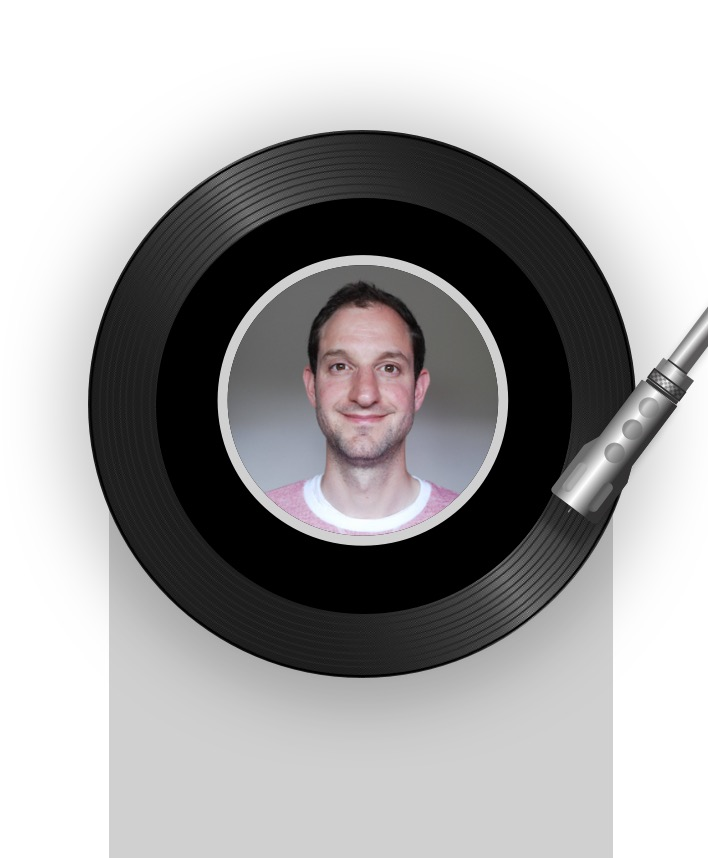
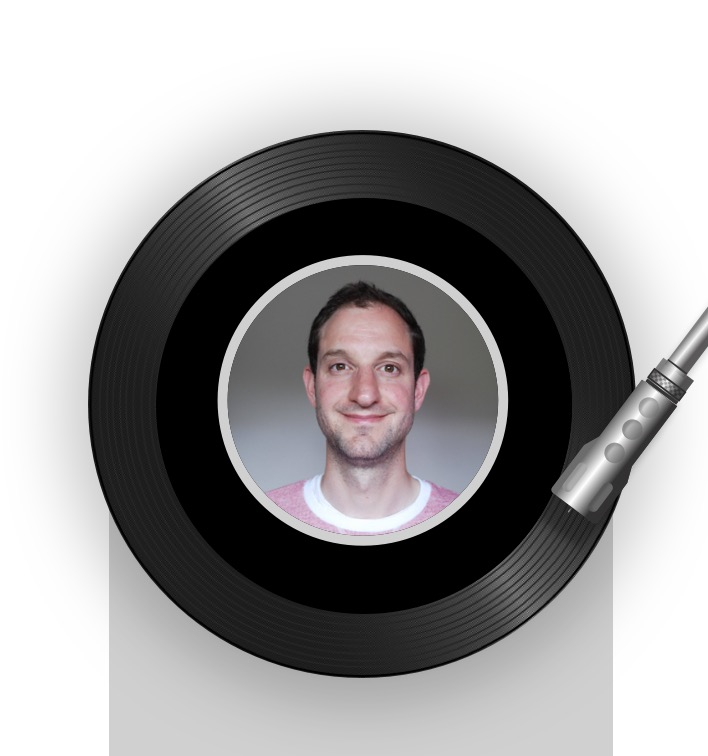
Fix about section background
Add three css background images to about div to solve.

diff --git a/css/styles.css b/css/styles.css
@@ -41,12 +41,12 @@ body, .navbar-light {
 {
 	position: relative;
 	top: -60px; 
-	z-index: -1;
-	min-height: 500px;
+	min-height: 450px;
 	/*background-color: #D0D0D0;*/
-	background-image: url("../img/about-header@2x.jpg");
-	background-size: 100%;
-	background-repeat: no-repeat;
+	background-image: url("../img/about-footer@2x.jpg"), url("../img/about-header@2x.jpg"), url("../img/about-fill@2x.jpg") ;
+	background-size: 100% auto, 100% auto, 100% auto;
+	background-repeat: no-repeat, no-repeat, repeat-y;
+	background-position: bottom, top, bottom;
 	/* background-image: url("../img/about-background-bottom@2x.jpg");
 	background-position: bottom;
 	background-repeat: no-repeat;
